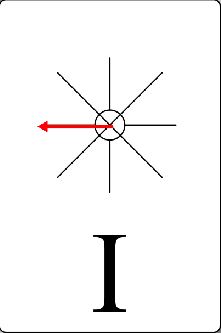
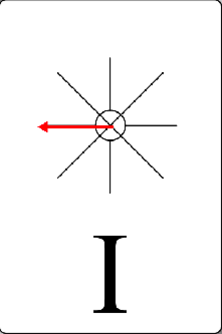
Fix movement card graphic

diff --git a/src/main/java/view/element/card/MovementCardLook.java b/src/main/java/view/element/card/MovementCardLook.java
@@ -4,6 +4,7 @@ import boardifier.model.GameElement;
 import boardifier.view.ElementLook;
 import javafx.geometry.Bounds;
 import javafx.scene.image.Image;
+import javafx.scene.image.ImageView;
 import javafx.scene.paint.Color;
 import javafx.scene.paint.ImagePattern;
 import javafx.scene.shape.Rectangle;
@@ -80,12 +81,13 @@ public class MovementCardLook extends ElementLook {
             String imagePath = movementCard.getDirection().getPath(movementCard.getStep());
 
             Image image = new Image(imagePath);
-            Rectangle rectangle = new Rectangle(100, 100);
-            rectangle.setFill(new ImagePattern(image));
-
+            ImageView imageView = new ImageView();
+            imageView.setImage(image);
+            imageView.setFitWidth(84);
+            imageView.setFitHeight(100);
             if (movementCard.isInverted()) {
-                text1.setText(step);
-                text2.setText(direction);
+
+                imageView.setRotate(180);
             } else {
                 text1.setText(direction);
                 text2.setText(step);
@@ -99,9 +101,11 @@ public class MovementCardLook extends ElementLook {
             text2.setX(-bt2.getWidth() / 2);
             text2.setY(text2.getBaselineOffset() / 2 + 20);
 
-            addShape(text1);
-            addShape(text2);
-            addShape(rectangle);
+            Bounds bt3 = imageView.getBoundsInLocal();
+            imageView.setX(-bt3.getWidth() / 2);
+            imageView.setY(imageView.getBaselineOffset() - 150);
+
+            addNode(imageView);
         }
     }
 }

diff --git a/src/main/java/view/container/card/MovementCardSpreadLook.java b/src/main/java/view/container/card/MovementCardSpreadLook.java
@@ -13,7 +13,7 @@ public class MovementCardSpreadLook extends GridLook {
     private Rectangle[] cells;
 
     public MovementCardSpreadLook(int height, int width, ContainerElement containerElement) {
-        super(height, width / 5, containerElement, -1, 1, Color.BLACK);
+        super(height, width / 5, containerElement, -1, 1, Color.TRANSPARENT);
 
     }
 
@@ -23,7 +23,7 @@ public class MovementCardSpreadLook extends GridLook {
         cells = new Rectangle[5];
         // create the rectangles.
         for (int i = 0; i < 5; i++) {
-            cells[i] = new Rectangle(colWidth, rowHeight, Color.GRAY);
+            cells[i] = new Rectangle(colWidth, rowHeight, Color.TRANSPARENT);
             cells[i].setStrokeWidth(3);
             cells[i].setStrokeMiterLimit(10);
             cells[i].setStrokeType(StrokeType.CENTERED);
